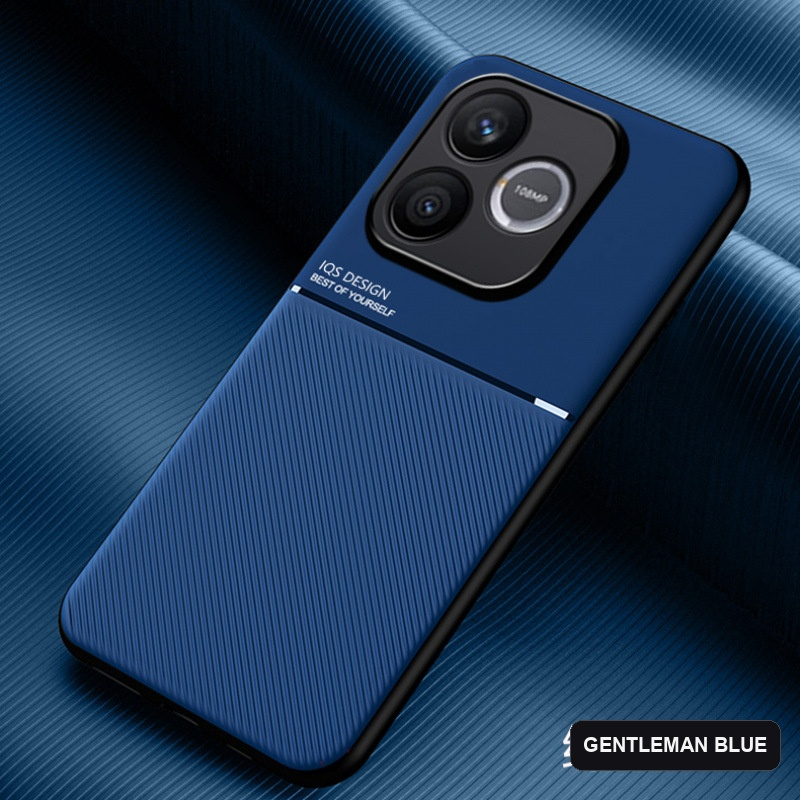
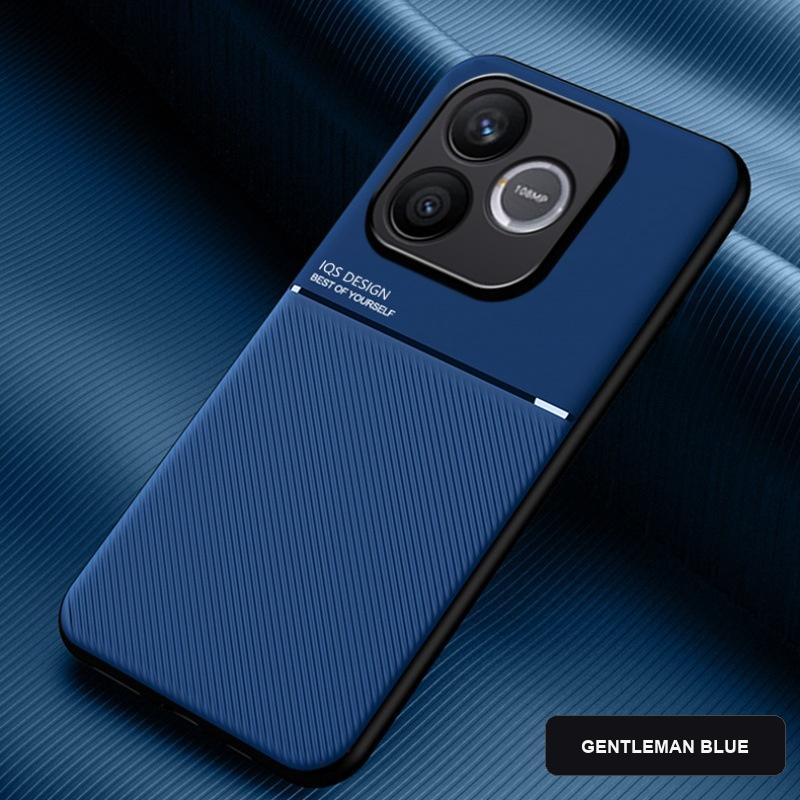
feat: refine Honor 600 lite translated badges and update weight-based air shipping in inventory

Changed region(s): [[0.6562, 0.875, 1.0, 0.9688]]

diff --git a/scripts/inventory_manager.py b/scripts/inventory_manager.py
@@ -389,7 +389,7 @@ def append_downloaded_product(
     material: str,
     product_url: str,
     china_del: float = 10.0,
-    air_ship: float = 50.0,
+    air_ship: Optional[float] = None,
     bd_del: float = 5.0,
     packaging: float = 11.5,
     printing: float = 20.0,
@@ -435,7 +435,7 @@ def append_downloaded_product(
             if bracket_match:
                 color_name = bracket_match.group(1).title()
             else:
-                for prefix in ["Straight Edge New Model [", "Rubik's Cube Liquid Silicone", "Built-in magnetic tpu frosted soft shell", "anti-fingerprint - skin-friendly", "]"]:
+                for prefix in ["Straight Edge New Model [", "Rubik's Cube Liquid Silicone", "Built-in magnetic tpu frosted soft shell", "Built-in magnetic suction - ", "Built-in magnetic suction-", "anti-fingerprint - skin-friendly", "]"]:
                     color_name = color_name.replace(prefix, "")
                 color_name = color_name.strip(" []-").title()
 
@@ -453,10 +453,10 @@ def append_downloaded_product(
                         pass
                     break
 
-            if air_ship is not None and air_ship > 0:
-                sku_air_ship = air_ship
-            elif sku_weight > 0:
+            if sku_weight > 0:
                 sku_air_ship = round(sku_weight * 2.0 * 780.0, 2)
+            elif air_ship is not None and air_ship > 0:
+                sku_air_ship = air_ship
             else:
                 sku_air_ship = 50.0
 

diff --git a/scripts/translate_helper.py b/scripts/translate_helper.py
@@ -252,19 +252,16 @@ def translate_moire_sku(img_path: str, color_name: str, out_path: Optional[str] 
     im = Image.open(img_path).convert("RGBA")
     draw = ImageDraw.Draw(im)
 
-    font = get_font("C:/Windows/Fonts/arialbd.ttf", 20)
+    font = get_font("C:/Windows/Fonts/arialbd.ttf", 18)
     clean_label = color_name.replace("Built-in magnetic suction - ", "").replace("Built-in magnetic suction-", "").strip().upper()
 
+    draw.rounded_rectangle([545, 715, 785, 775], radius=12, fill=(18, 18, 22, 255), outline=(70, 70, 75, 255), width=1)
     bbox = draw.textbbox((0, 0), clean_label, font=font)
-    text_w = bbox[2] - bbox[0]
-    pill_w = max(text_w + 26, 150)
-    pill_right = 780
-    pill_left = pill_right - pill_w
-    pill_top = 720
-    pill_bottom = 770
-
-    draw.rounded_rectangle([pill_left, pill_top, pill_right, pill_bottom], radius=12, fill=(18, 18, 22, 235), outline=(70, 70, 75, 255), width=1)
-    draw.text((pill_left + 13, pill_top + 13), clean_label, fill=(245, 245, 245, 255), font=font)
+    tw = bbox[2] - bbox[0]
+    th = bbox[3] - bbox[1]
+    cx = 545 + (240 - tw) / 2
+    cy = 715 + (60 - th) / 2 - 2
+    draw.text((cx, cy), clean_label, fill=(245, 245, 245, 255), font=font)
 
     im.convert("RGB").save(out_path, quality=95)
     return out_path
